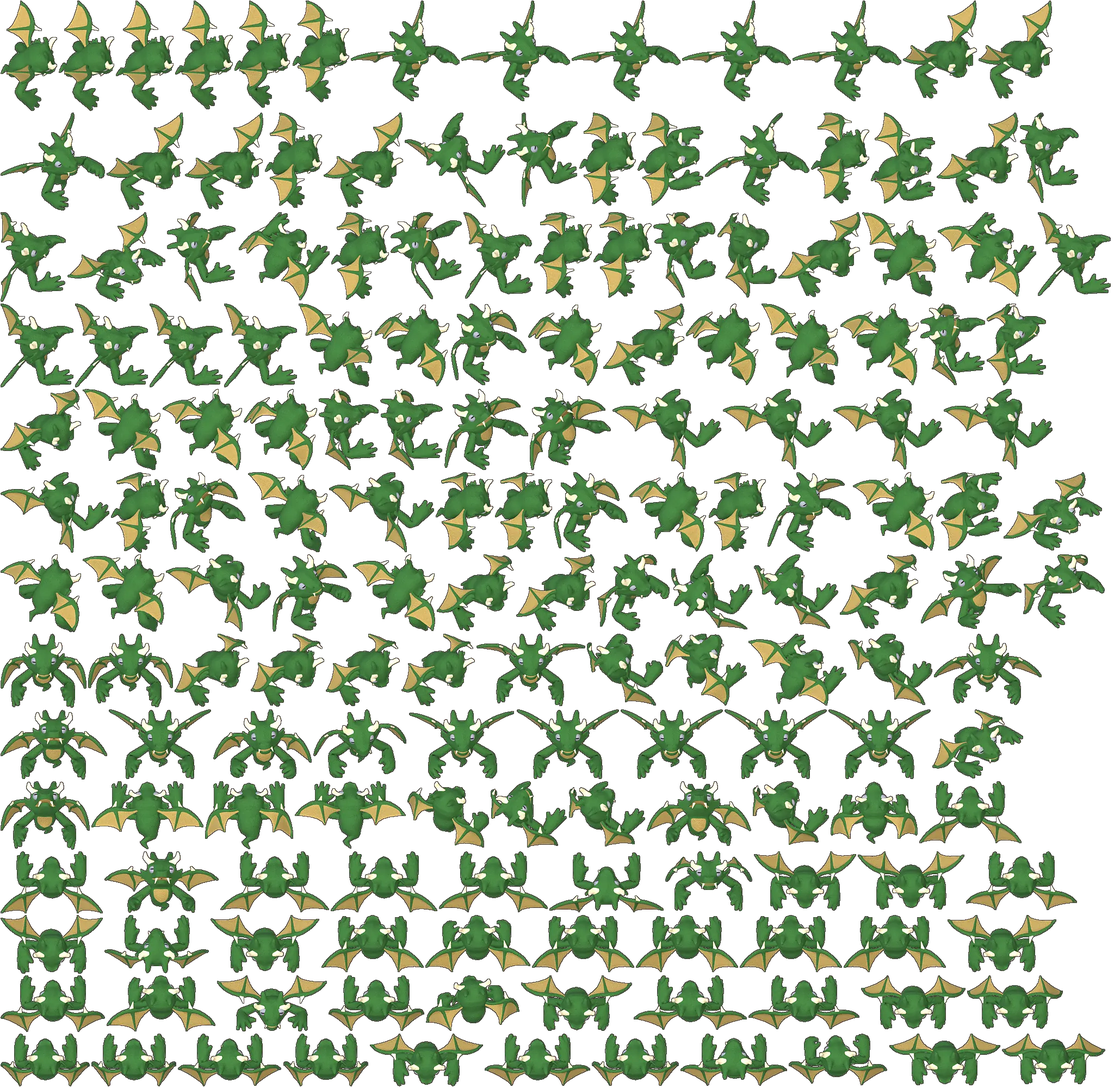
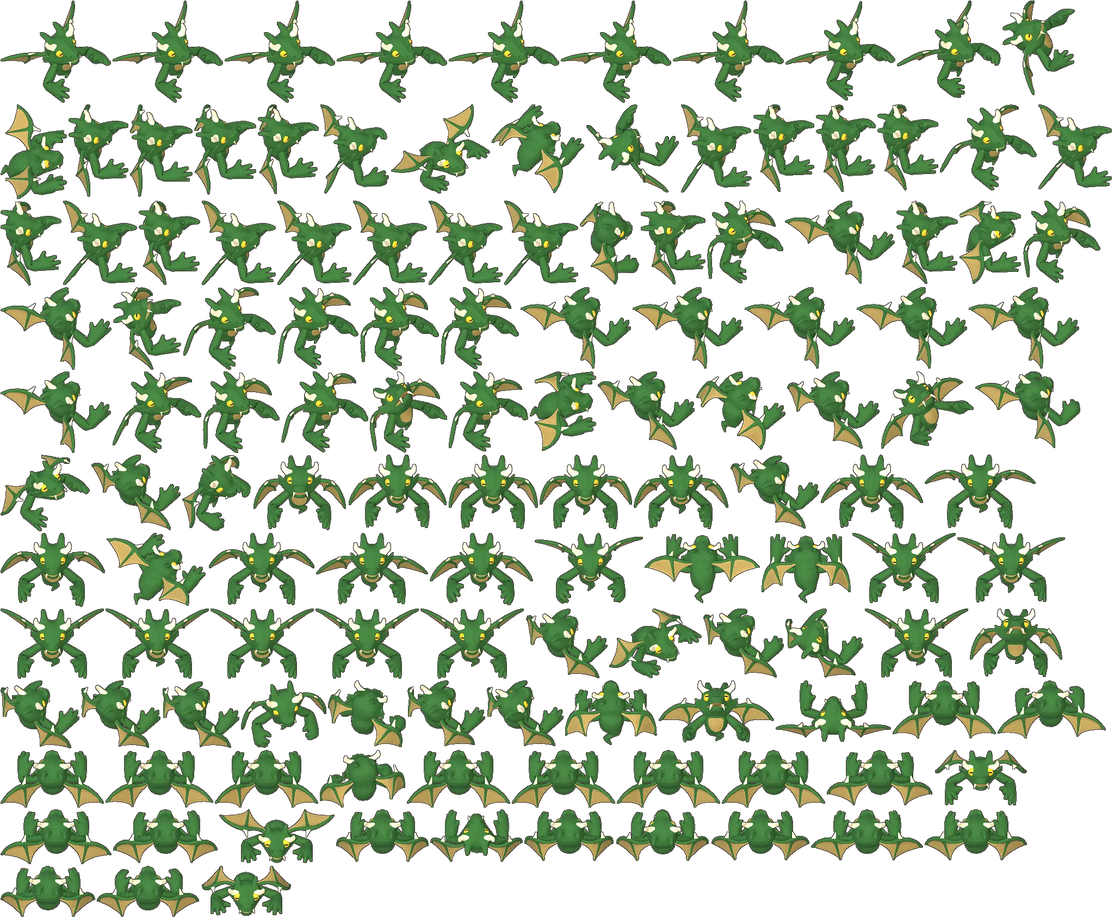
v18 wip: atlases greenDragon blackDragon

diff --git a/game3d.js b/game3d.js
@@ -124,9 +124,9 @@ async function buildPart(f,def,tint){const g=await loadG(f);const o=SkeletonUtil
     holder.scale.setScalar(p.len*H/(L*ws));bone.add(holder);}
   return {o,anims:g.animations};}
 // ---- pre-rendered sprites (?sprites=1): Blender-rendered 5-direction atlases (mirrored to 8) replace live 3D models ----
-const SPR_ON=/[?&]sprites=1/.test(location.search);const SPR={};const SPR_UNITS=['pikeman','halberdier','archer','marksman','griffin','royalGriffin','swordsman','crusader','monk','zealot','cavalier','champion','angel','archangel','skeleton','walkingDead','wight','vampire','lich','boneDragon','goblin','wolfRider','orc','ogre','behemoth','centaur','dwarf','woodElf','greenDragon','goldDragon','imp','gog','hellHound','demon','redDragon'];const sprLoader=new THREE.TextureLoader();const SPR_V=17;
+const SPR_ON=/[?&]sprites=1/.test(location.search);const SPR={};const SPR_UNITS=['pikeman','halberdier','archer','marksman','griffin','royalGriffin','swordsman','crusader','monk','zealot','cavalier','champion','angel','archangel','skeleton','walkingDead','wight','vampire','lich','boneDragon','goblin','wolfRider','orc','ogre','behemoth','centaur','dwarf','woodElf','greenDragon','goldDragon','imp','gog','hellHound','demon','redDragon','blackDragon'];const sprLoader=new THREE.TextureLoader();const SPR_V=17;
 // upgraded creatures reuse their base unit's atlas with a colour tint and a slightly larger scale (same approach as the 3D fallback)
-const SPR_K={griffin:0.5,royalGriffin:0.52,hellHound:0.6,cerberus:0.62,wolfRider:0.72,wolfRaider:0.74,roc:0.6,thunderbird:0.6};const SPR_ALIAS={skeletonWarrior:['skeleton',0xc8d4ff],zombie:['walkingDead',0xc8e8a0],familiar:['imp',0xff9a7a],centaurCaptain:['centaur',0xd8e8c0],magog:['gog',0xffb070],powerLich:['lich',0xd0b0ff],ancientBehemoth:['behemoth',0xffb890],wraith:['wight',0xc0ccff],ghostDragon:['boneDragon',0xb8d8ff],wolfRaider:['wolfRider',0xffe0c0],orcChieftain:['orc',0xffe0b0],ogreMage:['ogre',0xc8d0ff],cyclops:['ogre',0xd8e0c8],cyclopsKing:['ogre',0xffe0a0],roc:['griffin',0xa08060],thunderbird:['griffin',0x90a0ff],grandElf:['woodElf',0xe8ffd8],cerberus:['hellHound',0xffb0a0],hornedDemon:['demon',0xffc8a0],hobgoblin:['goblin',0xffc48a],battleDwarf:['dwarf',0xffcfa0],vampireLord:['vampire',0xffc0c0],blackDragon:['greenDragon',0x605868]};
+const SPR_K={griffin:0.5,royalGriffin:0.52,hellHound:0.6,cerberus:0.62,wolfRider:0.72,wolfRaider:0.74,roc:0.6,thunderbird:0.6};const SPR_ALIAS={skeletonWarrior:['skeleton',0xc8d4ff],zombie:['walkingDead',0xc8e8a0],familiar:['imp',0xff9a7a],centaurCaptain:['centaur',0xd8e8c0],magog:['gog',0xffb070],powerLich:['lich',0xd0b0ff],ancientBehemoth:['behemoth',0xffb890],wraith:['wight',0xc0ccff],ghostDragon:['boneDragon',0xb8d8ff],wolfRaider:['wolfRider',0xffe0c0],orcChieftain:['orc',0xffe0b0],ogreMage:['ogre',0xc8d0ff],cyclops:['ogre',0xd8e0c8],cyclopsKing:['ogre',0xffe0a0],roc:['griffin',0xa08060],thunderbird:['griffin',0x90a0ff],grandElf:['woodElf',0xe8ffd8],cerberus:['hellHound',0xffb0a0],hornedDemon:['demon',0xffc8a0],hobgoblin:['goblin',0xffc48a],battleDwarf:['dwarf',0xffcfa0],vampireLord:['vampire',0xffc0c0]};
 function loadSpr(t){if(!SPR_ON)return null;if(SPR_ALIAS[t])return loadSpr(SPR_ALIAS[t][0]);if(!SPR_UNITS.includes(t))return null;return SPR[t]||(SPR[t]=fetch(`assets/spr/${t}.json?v=${SPR_V}`).then(r=>r.json()).then(m=>Promise.all(m.pages.map((_,i)=>new Promise((res,rej)=>sprLoader.load(`assets/spr/${t}_p${i}.webp?v=${SPR_V}`,res,undefined,rej)))).then(tx=>{for(const x of tx){x.colorSpace=THREE.SRGBColorSpace;x.anisotropy=4;}m.tex=tx;return m;})).catch(e=>{console.warn('spr',t,e);return null;}));}
 const shadowTex=(()=>{const c=document.createElement('canvas');c.width=c.height=64;const x=c.getContext('2d');const g=x.createRadialGradient(32,32,2,32,32,32);g.addColorStop(0,'rgba(0,0,0,.62)');g.addColorStop(0.5,'rgba(0,0,0,.36)');g.addColorStop(1,'rgba(0,0,0,0)');x.fillStyle=g;x.fillRect(0,0,64,64);return new THREE.CanvasTexture(c);})();
 const shadowMat=new THREE.MeshBasicMaterial({map:shadowTex,transparent:true,depthWrite:false});const shadowGeo=new THREE.PlaneGeometry(1,1);shadowGeo.rotateX(-Math.PI/2);
